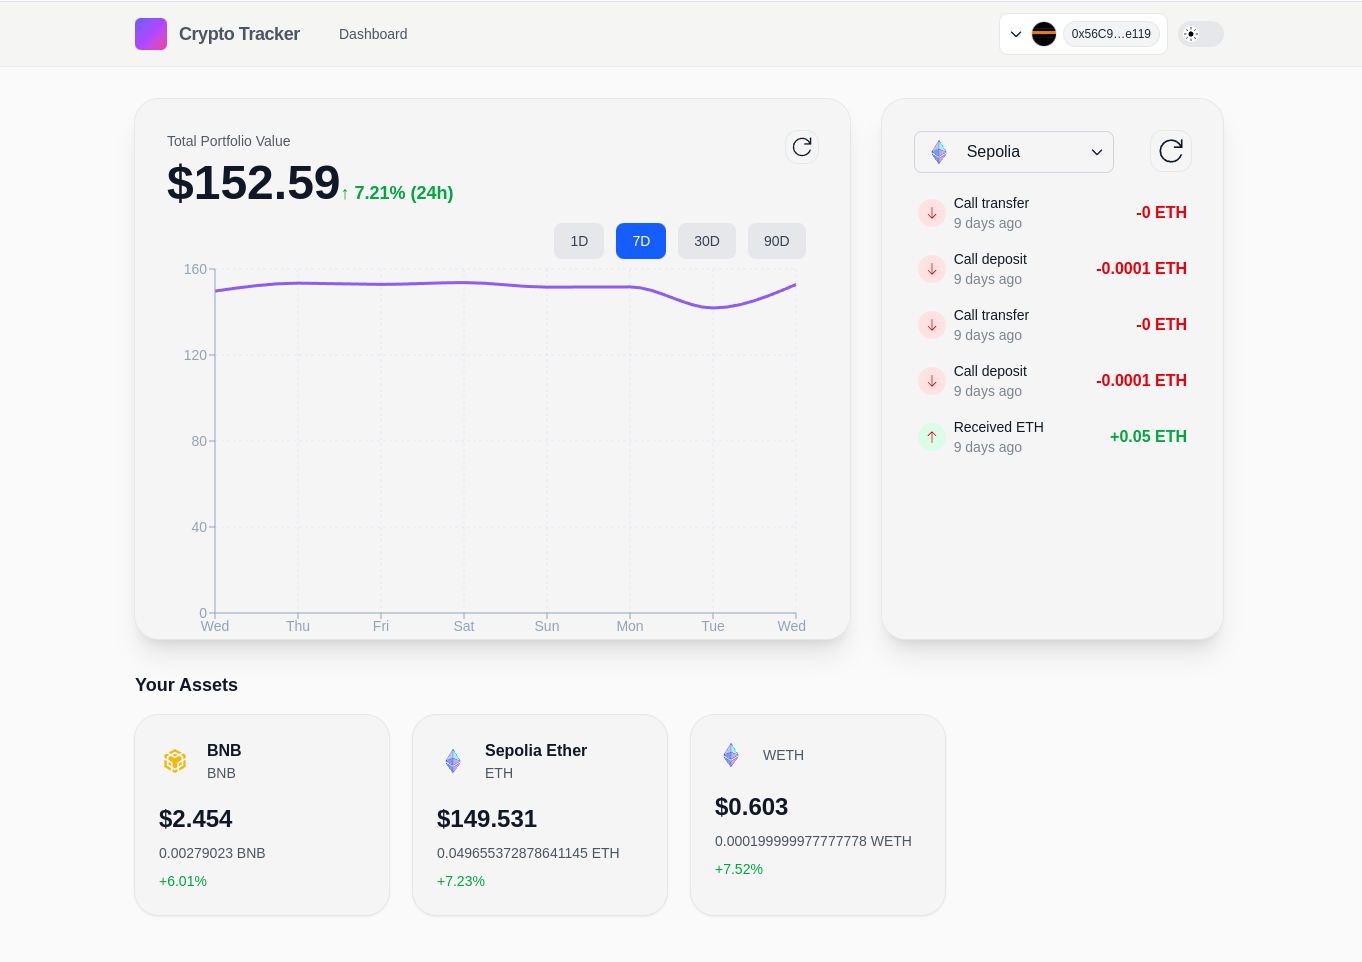
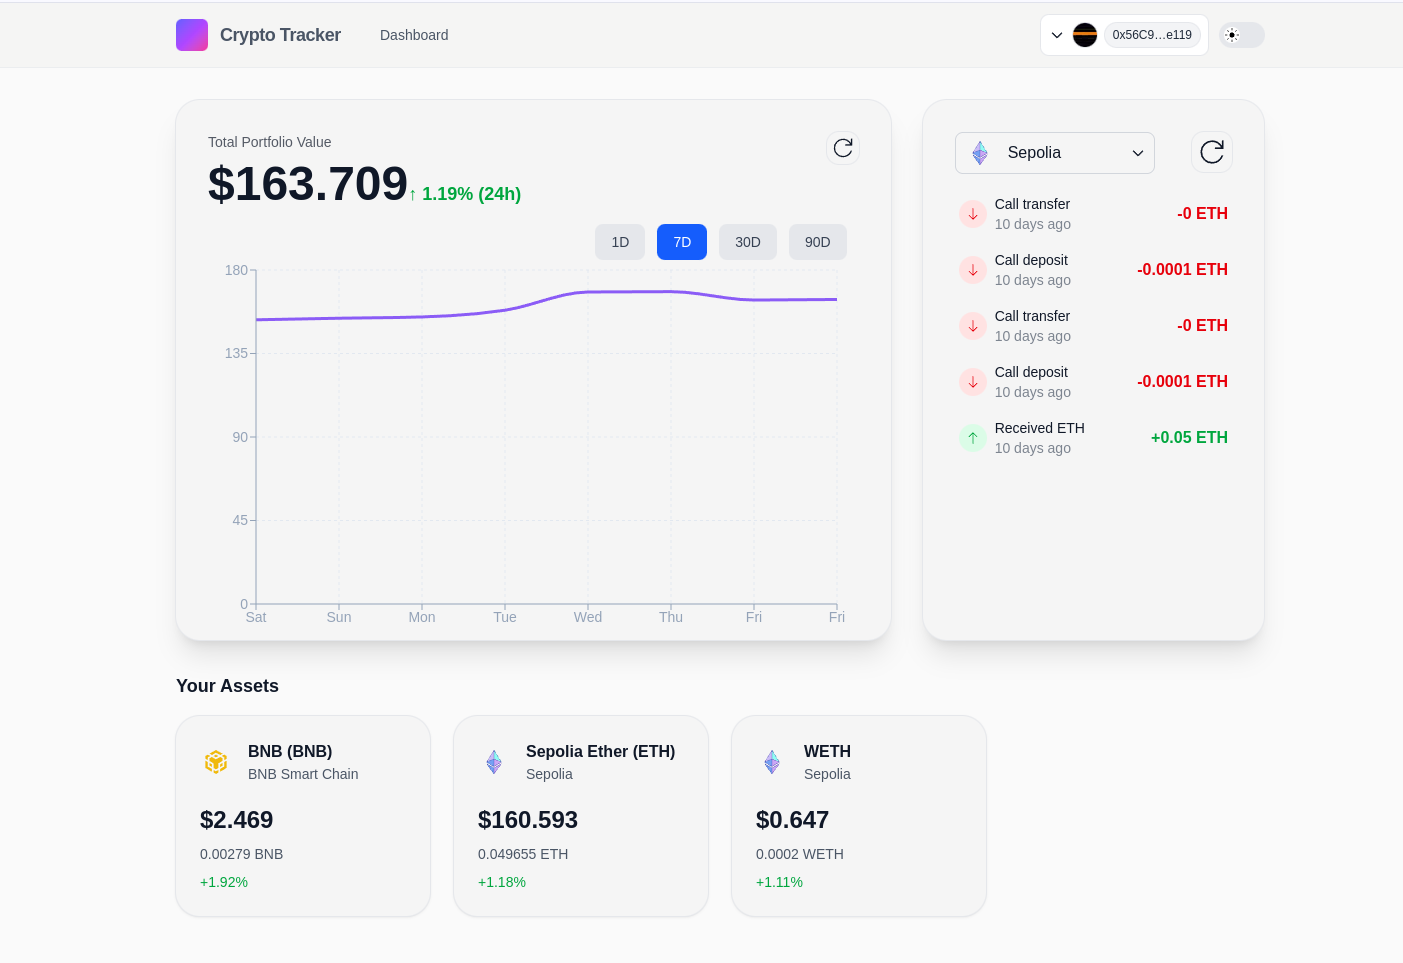
feat: update types, semantic, chart and assets card

diff --git a/src/components/ui/TokenLogo.tsx b/src/components/ui/TokenLogo.tsx
@@ -1,5 +1,6 @@
 'use client';
 
+import { ASSET_DATA } from '@/hooks/usePortfolio';
 import Image from 'next/image';
 import { mainnet, polygon, arbitrum, base, optimism, bsc, avalanche, gnosis, fantom, zksync, bscTestnet, sepolia } from 'wagmi/chains';
 
@@ -45,33 +46,33 @@ const CHAIN_ID_LOGO_MAP: Record<string, LogoSource> = {
   [sepolia.id]: { path: 'token-branded--eth', type: SourceType.ICONIFY }, // todo remove
 };
 
-const LogoSource = ({ source, size }: { source: LogoSource | string, size: number }) => {
+const LogoSource = ({ source, size, alt }: { source: LogoSource | string, size: number, alt: string }) => {
   if (typeof source === 'string') {
     return <div className="flex-center size-full rounded-full bg-gray-400 dark:bg-gray-200">{source}</div>;
   }
   return source.type === SourceType.IMAGE_URL
-    ? <Image src={source.path} width={size} height={size} alt="tokenIcon" />
-    : <span className={`iconify-color ${source.path} size-full`} />;
+    ? <Image src={source.path} width={size} height={size} alt={alt} />
+    : <span role="img" aria-label={alt} className={`iconify-color ${source.path} size-full`} />;
 };
 
-export const TokenLogo: React.FC<{ symbol: string, chainId: number }> = ({ symbol, chainId }) => {
-  const isNative = TOKEN_LOGO_MAP[symbol]?.path === CHAIN_ID_LOGO_MAP[chainId].path;
+export const TokenLogo: React.FC<{ symbol: string, chain: ASSET_DATA['chain'] }> = ({ symbol, chain }) => {
+  const isNative = TOKEN_LOGO_MAP[symbol]?.path === CHAIN_ID_LOGO_MAP[chain.id].path;
   return (
     <div className="size-8 relative">
-      <LogoSource source={TOKEN_LOGO_MAP[symbol] || symbol} size={32} />
+      <LogoSource source={TOKEN_LOGO_MAP[symbol] || symbol} size={32} alt={`${symbol} Icon`} />
       {!isNative && (
         <div className="absolute -bottom-1 -right-1 size-5 rounded-full border-2 border-white dark:border-gray-900 bg-gray-100 dark:bg-gray-800 flex-center">
-          <LogoSource source={CHAIN_ID_LOGO_MAP[chainId] || chainId} size={8} />
+          <LogoSource source={CHAIN_ID_LOGO_MAP[chain.id] || chain.name} size={8} alt={`${chain.name} Network Icon`} />
         </div>
       )}
     </div>
   );
 };
 
-export const NetworkLogo: React.FC<{ chainId: number }> = ({ chainId }) => {
+export const NetworkLogo: React.FC<{ chain: ASSET_DATA['chain'] }> = ({ chain }) => {
   return (
     <div className="size-8 relative">
-      <LogoSource source={CHAIN_ID_LOGO_MAP[chainId] || chainId} size={32} />
+      <LogoSource source={CHAIN_ID_LOGO_MAP[chain.id] || chain.name} size={32} alt={`${chain.name} Network Icon`} />
     </div>
   );
 };

diff --git a/src/components/PortfolioCard.tsx b/src/components/PortfolioCard.tsx
@@ -9,28 +9,33 @@ export function PortfolioCard({ asset }: { asset: ASSET_DATA }) {
   return (
     <div className="background-standard ring-standard rounded-3xl p-6 shadow hover:shadow-xl transition-shadow">
       <div className="flex items-center gap-4 mb-5">
-        <TokenLogo chainId={asset.chainId} symbol={asset.symbol} />
+        <TokenLogo chain={asset.chain} symbol={asset.symbol} />
         <div>
-          <h3 className="font-semibold text-standard">{asset.name || asset.symbol}</h3>
-          {asset.name && <p className="text-sm text-interactive">{asset.symbol}</p>}
+          <h3 className="font-semibold text-standard">
+            {asset.name || asset.symbol}
+            {asset.name && ` (${asset.symbol})`}
+          </h3>
+          <p className="text-sm text-interactive">{asset.chain.name}</p>
         </div>
       </div>
 
       <div className="space-y-2">
         <p className="text-2xl font-bold text-standard">
           $
-          {asset.valueUSD.toLocaleString('en-US', { minimumFractionDigits: 2 })}
+          {asset.valueUSD.toLocaleString('en-US', { currency: 'USD' })}
         </p>
         <p className="text-sm text-interactive">
-          {asset.balance.toLocaleString()}
+          {(+asset.balance).toLocaleString('en-US', { maximumFractionDigits: 6 })}
           {' '}
           {asset.symbol}
         </p>
-        <p className={`text-sm font-medium ${isPositive ? 'text-green-600' : 'text-red-600'}`}>
-          {isPositive ? '+' : ''}
-          {asset.change24h.toFixed(2)}
-          %
-        </p>
+        {asset.change24h && (
+          <p className={`text-sm font-medium ${isPositive ? 'text-green-600' : 'text-red-600'}`}>
+            {isPositive ? '+' : ''}
+            {asset.change24h.toFixed(2)}
+            %
+          </p>
+        )}
       </div>
     </div>
   );

diff --git a/src/components/PortfolioChart.tsx b/src/components/PortfolioChart.tsx
@@ -29,13 +29,13 @@ const PortfolioChart = () => {
     <div className="card-standard">
       <RefreshButton onClick={refresh} />
       <div className="mb-4">
-        <p className="text-sm text-standard opacity-70 mb-1 md:mb-2">Total Portfolio Value</p>
+        <h2 className="text-sm text-standard opacity-70 mb-1 md:mb-2">Total Portfolio Value</h2>
         {isPending
           ? (<div className="skeleton-loader w-48 h-10" />)
           : (
               <div className="flex items-baseline text-xl md:text-5xl font-bold text-standard">
                 $
-                {data?.totalUSD.toLocaleString('en-US', { minimumFractionDigits: 2, maximumFractionDigits: 2 })}
+                {data?.totalUSD.toLocaleString('en-US', { currency: 'USD' })}
                 <div className={`flex items-center gap-1.5 mt-3 text-xs md:text-lg font-semibold ${isPositive ? 'text-green-600' : 'text-red-600'}`}>
                   {data?.change24h as number > 0 ? '↑' : '↓'}
                   {' '}
@@ -74,7 +74,7 @@ const PortfolioChart = () => {
             <ResponsiveContainer width="100%" height="100%">
               <LineChart
                 data={history.history}
-                margin={{ top: 10, right: 10, bottom: 0 }}
+                margin={{ top: 10, right: 10, bottom: 10 }}
               >
                 <CartesianGrid strokeDasharray="3 3" stroke="#e2e8f0" className="dark:stroke-gray-800" />
                 <XAxis dataKey="date" tickFormatter={dateFormatter} stroke="#94a3b8" />

diff --git a/src/components/ui/ChainSelect.tsx b/src/components/ui/ChainSelect.tsx
@@ -3,20 +3,20 @@ import { CHAINS } from '@/constants/chains';
 import { Listbox, ListboxButton, ListboxOption, ListboxOptions } from '@headlessui/react';
 
 import { NetworkLogo } from './TokenLogo';
-type Chain = typeof CHAINS[0];
+type Chain = typeof CHAINS[number];
 const ChainSelect = ({ chain, onChange }: { chain: Chain, onChange: (chain: Chain) => void }) => {
   return (
     <div className="w-32 md:w-50  bg-transparent border border-gray-300 dark:border-gray-600 rounded-lg px-2 py-1 text-standard focus:outline-none">
       <Listbox value={chain} onChange={onChange}>
         <ListboxButton className="w-full flex items-center gap-3 focus:outline-none truncate">
-          <NetworkLogo chainId={chain.id} />
+          <NetworkLogo chain={chain} />
           {chain.name}
           <span className="iconify line-md--chevron-down text-standard ml-auto"></span>
         </ListboxButton>
         <ListboxOptions anchor="bottom" className="w-32 md:w-48 p-1  scrollbar-standard background-standard shadow-lg ring-standard focus:outline-none text-standard flex flex-col gap-2 rounded-md mt-3 max-h-60 overflow-y-auto">
           {CHAINS.map(chain => (
             <ListboxOption key={chain.id} value={chain} className="w-full flex items-center gap-3">
-              <NetworkLogo chainId={chain.id} />
+              <NetworkLogo chain={chain} />
               {chain.name}
             </ListboxOption>
           ))}

diff --git a/src/hooks/usePortfolio.ts b/src/hooks/usePortfolio.ts
@@ -11,7 +11,7 @@ import { formatUnits } from 'viem';
 import COINGECKO_ID_MAP from '@/constants/coingeckoIdMap';
 
 export type ASSET_DATA = {
-  chainId: number
+  chain: typeof CHAINS[number]
   name?: string
   symbol: keyof typeof COINGECKO_ID_MAP
   balance: string
@@ -128,7 +128,7 @@ export function usePortfolio() {
         totalUSD += valueUSD;
         weightedChange += valueUSD * prices[symbol].change24h;
         assets.push({
-          chainId: chain.id,
+          chain: chain,
           change24h: prices[symbol].change24h,
           symbol,
           name: chain.nativeCurrency.name,
@@ -144,12 +144,13 @@ export function usePortfolio() {
       const balance = formatUnits(balanceRaw ?? BigInt(0), token.decimals);
 
       if (+balance > 0.0001) {
+        const chain = CHAINS.find(c => c.id === token.chainId)!;
         const price = prices[token.symbol].price || 1;
         const valueUSD = +balance * price;
         totalUSD += valueUSD;
         weightedChange += valueUSD * prices[token.symbol].change24h;
         assets.push({
-          chainId: token.chainId,
+          chain: chain,
           name: 'name' in token ? token.name : undefined,
           symbol: token.symbol,
           change24h: prices[token.symbol].change24h,

diff --git a/src/components/TransactionsHistory.tsx b/src/components/TransactionsHistory.tsx
@@ -19,7 +19,7 @@ enum TransactionType {
 
 export function TransactionHistory() {
   const { address } = useConnection();
-  const [chain, setChain] = useState(CHAINS[0]);
+  const [chain, setChain] = useState<typeof CHAINS[number]>(CHAINS[0]);
   const { data, refresh, isPending, isError, refetch } = useTransactionHistory(chain.id);
 
   return (
@@ -65,7 +65,7 @@ export function TransactionHistory() {
                     <div className="flex items-center justify-between">
                       <div className="flex items-center gap-2">
                         <div className={`p-1 flex-center rounded-full ${isOutgoing ? 'bg-red-100 dark:bg-red-900/30' : 'bg-green-100 dark:bg-green-900/30'}`}>
-                          <span className={clsx('iconify material-symbols-light--arrow-right-alt w-5 h-5 text-red-600 dark:text-red-400 transform-gpu',
+                          <span className={clsx('iconify material-symbols-light--arrow-right-alt w-5 h-5 transform-gpu',
                             isOutgoing ? 'text-red-600 dark:text-red-400 rotate-90' : 'text-green-600 dark:text-green-400 -rotate-90')}
                           />
                         </div>

diff --git a/src/components/PortfolioGrid.tsx b/src/components/PortfolioGrid.tsx
@@ -15,13 +15,13 @@ export function PortfolioGrid() {
     <div className="grid grid-cols-1 sm:grid-cols-2 lg:grid-cols-3 xl:grid-cols-4 gap-6">
       {isPending && (
         [...Array(8)].map((_, i) => (
-          <div key={i} className="h-40 skeleton-loader rounded-xl" />
+          <div key={i} data-testid="asset-skeleton" className="h-40 skeleton-loader rounded-xl" />
         ))
       )}
       {assets.length === 0 && !isPending && (
         <p className="col-span-full text-center text-gray-500">No assets found</p>)}
       {assets.map(asset => (
-        <PortfolioCard key={asset.chainId + asset.symbol} asset={asset} />
+        <PortfolioCard key={asset.chain.id + asset.symbol} asset={asset} />
       ))}
     </div>
   );

diff --git a/src/utils/web3/connectorsMeta.ts b/src/utils/web3/connectorsMeta.ts
@@ -11,7 +11,7 @@ export interface ConnectorMeta {
   deepLink?: string
 }
 
-export const ALL_CONNECTOR_META: ConnectorMeta[] = [
+export const ALL_CONNECTOR_META = [
   {
     id: 'metaMaskSDK',
     name: 'MetaMask',
@@ -71,7 +71,7 @@ export const ALL_CONNECTOR_META: ConnectorMeta[] = [
     name: 'Zerion',
     shortName: 'Zerion',
   },
-];
+] as const;
 
 export const getConnectorMeta = (connector: Connector): ConnectorMeta | undefined => {
   return ALL_CONNECTOR_META.find(m => m.id === connector.id);
